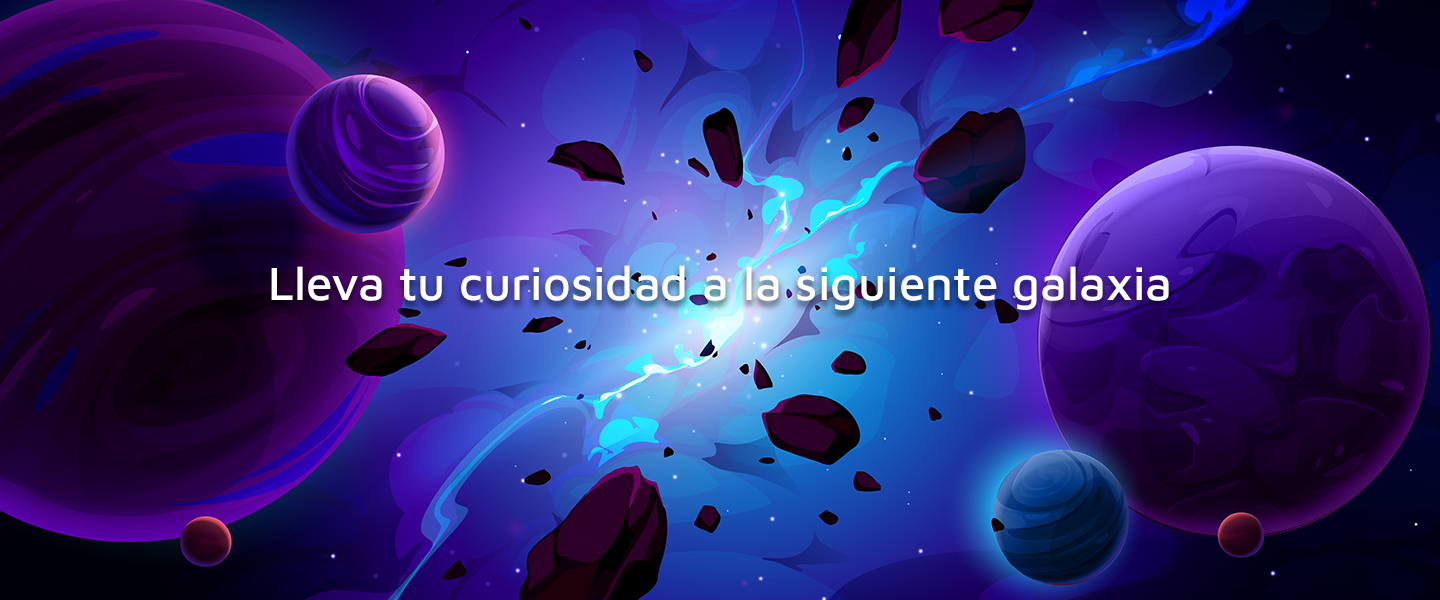
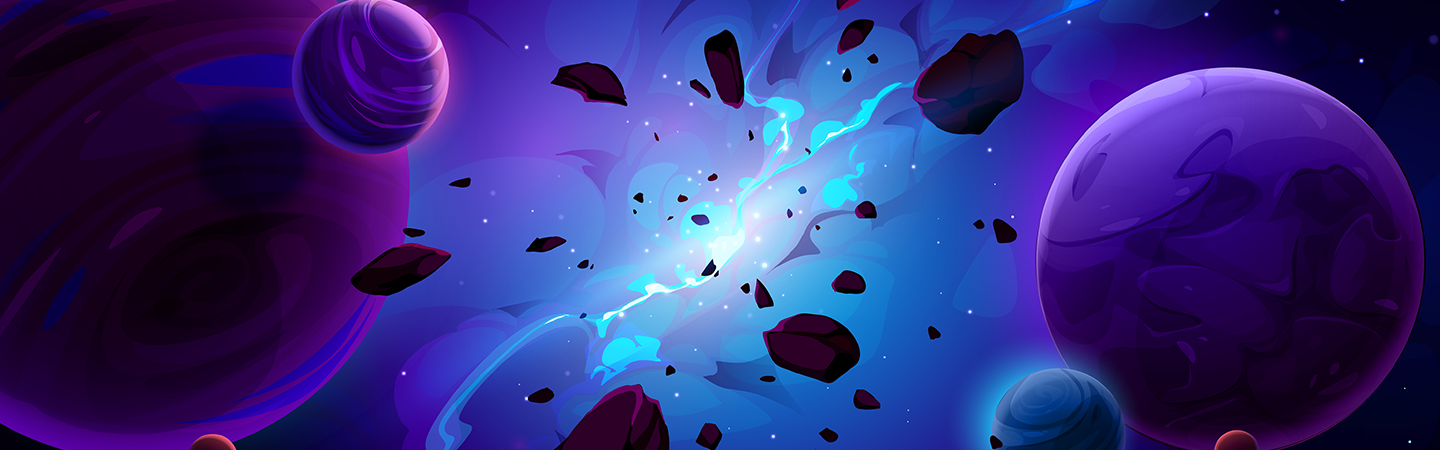
Agregando css de contenido principal y cards

diff --git a/assets/styles/indexStyle.css b/assets/styles/indexStyle.css
@@ -1,5 +1,4 @@
 *{
-    box-sizing: border-box;
     margin: 0;
     padding: 0;
     font-family: 'Maven Pro', sans-serif;
@@ -11,13 +10,20 @@ body{
 }
 
 p{
-    font-size: 17px;
+    font-size: 16px;
 }
 
 h1, h2, h3, h4{
     color: #270E5E;
     font-weight: bold;
-    font-size: 40px;
+}
+
+h4{
+    font-size: 21px;
+}
+
+h2{
+font-size: 35px;
 }
 /* NAVBAR */
 
@@ -26,7 +32,7 @@ h1, h2, h3, h4{
     display: flex;
     justify-content: flex-end;
     align-items: center;
-    height: 85px;
+    height: 77px;
     padding: 5px 10%;
 }
 
@@ -69,7 +75,7 @@ h1, h2, h3, h4{
 }
 
 .header .btn button{
-    margin-left: 20px;
+    margin: 20px;
     font-weight: 700;
     color: #1b3039;
     padding: 9px 25px;
@@ -86,11 +92,31 @@ h1, h2, h3, h4{
     transform: scale(1.1);
 }
 
+
 /* HERO */
- .hero {
-   width: 100%;
+.hero{
+    width: 100vw;
+    height: 450px;
+    display: flex;
+    align-items: center;
+    justify-content: center;
+    background: url(/assets/img/hero.png);
+    background-size: cover;
+    background-position: center;
 }
 
+
+.hero p {
+    color: #eceff1;
+    font-size:38px;
+    font-weight:500;
+    text-align: center;
+    text-shadow: #270E5E 1px 1px 8px;
+   
+    
+}
+
+/* CONTENIDO PRINCIPAL */
  .content1{
 display: flex;
 flex-direction: row;
@@ -105,7 +131,7 @@ justify-content: center;
 .content-text{
     text-align: justify;
     line-height: 28px;
-    height: 400px;
+    height: 300px;
     width: 600px;
     padding: 20px;
     margin: 30px;
@@ -125,7 +151,7 @@ justify-content: center;
     .content-text2{
         text-align: justify;
         line-height: 28px;
-        height: 400px;
+        height: 300px;
         width: 650px;
         text-align: start;
         padding: 20px;
@@ -149,3 +175,139 @@ animation: anime 1s infinite ease-in-out alternate;
         
     }
 }
+
+/* HERO SECUNDARIO */
+.second-hero{
+        width: 100vw;
+        height: 450px;
+        display: flex;
+        align-items: center;
+        justify-content: center;
+        background: url(/assets/img/section.png);
+        background-size: cover;
+        background-position: center;
+    }
+    
+    
+    .second-hero p {
+        color: #eceff1;
+        font-size:38px;
+        font-weight:500;
+        text-align: center;
+        text-shadow: #270E5E 1px 1px 8px;
+       
+        
+    }
+
+
+    /* SECCIÓN DE CARDS */
+
+
+    .card-row{
+        display: flex;
+        justify-content: space-evenly;
+        padding: 20px;
+        margin: 20px;
+    }
+    .card{
+        display: flex;
+        flex-direction: column;
+        width: 300px;
+        height: 380px;
+        box-shadow: 5px 5px 15px rgb(53, 53, 58);
+        text-align: center;
+        
+        border-radius: 10px;
+        background: #eceff1;
+
+    }
+
+    .card-image img{
+        height: 160px;
+        width: 300px;
+        border-radius: 10px 10px 0px 0px;
+    }
+   
+    .card-text{
+        margin:15px;
+        padding: 10px;
+        text-align: justify;
+    }
+
+    .card button{
+        width: 100px;
+        height: 80px;
+        font-weight: 700;
+        color: #1b3039;
+        background: #D5CAFF;
+        border: none;
+        border-radius: 10px;
+        cursor: pointer;
+        align-self: flex-end;
+        margin: 10px;
+    }
+
+    .card:hover{
+        transform:scale(1.15);
+        box-shadow: 5px 5px 15px rgba(0,0,0,0.6);
+    }
+    .card{
+
+        transition: 0.5s ease;
+        cursor:pointer;
+        margin: 30px;
+    }
+
+/* footer */
+    footer{
+        text-align: center;
+        background-color: #270E5E;
+    }
+
+    footer img{
+        height: 60px;
+        margin-top: 20px;
+    }
+    footer .menu li{
+        display: inline-block;
+        margin:0.7em;
+        text-align: center;
+        text-decoration: none;
+       
+    }
+
+    footer p{
+        margin:0 auto;
+        color: #D5CAFF;
+        padding-bottom: 20px;
+    }
+    
+    footer a{
+        color:#D5CAFF;
+        text-decoration: none;
+    }
+    footer .media-icons {
+        margin:1.5em 0;
+        display: flex;
+        flex-direction: row;
+        justify-content:center;
+        gap:30px;
+        list-style-type: none;
+
+    }
+
+    footer .media-icons a{
+        border: 1px #D5CAFF solid;
+        width: 2em;
+        height:2em;
+        border-radius:50%;
+        display: flex;
+        justify-content: center;
+        align-items: center;
+        transition: 0.3s;
+    }
+
+    .media-icons a:hover{
+        background-color: #9180d7;
+        color: #270E5E;
+    }

diff --git a/index.html b/index.html
@@ -12,6 +12,7 @@
       href="https://fonts.googleapis.com/css2?family=Maven+Pro:wght@400;500;600;700;800;900&display=swap"
       rel="stylesheet"
     />
+    <link rel="stylesheet" href="https://cdnjs.cloudflare.com/ajax/libs/font-awesome/6.4.0/css/all.min.css" />
   </head>
 
   <body>
@@ -32,8 +33,8 @@
     </header>
 
     <!-- Hero -->
-    <section class="Inicio">
-      <img src="assets/img/hero.png" alt="hero galaxia" class="hero" />
+    <section class="hero">
+      <p>Lleva tu curiosidad a la siguiente galaxia</p>
     </section>
     <br /><br /><br /><br />
 
@@ -56,7 +57,6 @@
       </div>
     </section>
 
-
     <section class="content2">
       <div class="content-text2">
         <h2>Una constelación de posibilidades</h2>
@@ -73,32 +73,88 @@
       <div>
         <img src="assets/img/planet.png" alt="astronauta" class="planet-content" />
       </div>
+<!-- HERO SECUNDARIO -->
+    </section>
++ <section class="second-hero">
+  <p>Lleva tu curiosidad a la siguiente galaxia</p>
+</section>
+<br /><br /><br /><br />
+<!-- FILA DE CARDS -->
+<section class="card-row">
+<article class="card">
+  <div class="card-image">
+    <img src="assets/img/nebulosa.png">
+  </div>
+  <div class="card-text">
+    <h4>Título magnífico</h4>
+    <br>
+    <p>Lorem ipsum dolor sit amet consectetur adipisicing elit. A architecto commodi porro quos itaque</p>
+  </div>
+  <button class="btn-card">Saber más</button>
+</article>
 
+<article class="card">
+  <div class="card-image">
+    <img src="assets/img/nebulosa.png">
+  </div>
+  <div class="card-text">
+    <h4>Título magnífico</h4>
+    <br>
+    <p>Lorem ipsum dolor sit amet consectetur adipisicing elit. A architecto commodi porro quos itaque</p>
+  </div>
+  <button class="btn-card">Saber más</button>
+</article>
+
+<article class="card">
+  <div class="card-image">
+    <img src="assets/img/nebulosa.png">
+  </div>
+  <div class="card-text">
+    <h4>Título magnífico</h4>
+    <br>
+    <p>Lorem ipsum dolor sit amet consectetur adipisicing elit. A architecto commodi porro quos itaque</p>
+  </div>
+  <button class="btn-card">Saber más</button>
+</article>
     </section>
 
-    <section></section>
+    <br /><br /> <br/><br/>
+    <!-- Footer -->
 
-    <!-- <footer>
-    <div class="container">
-      <img src="neboolalogo.png" alt="neboola logo">
-   
-    <div class="footerlinks">
-      <ul>
-        <li>Nosotros</li>
-        <li>FAQ</li>
-        <li>NASA</li>
-        <li>LinkedIn</li>
-      </ul>
-    </div>
-    <div class="footersocialicons">
-      2023 Neboola
-      <ul>
-        <li>Instagram</li>
-        <li>Twitter</li>
-        <li>Youtube</li>
-      </ul>
-    </div> 
-  </div>
-  </footer> -->
+    <footer>
+      <div class="container-footer">
+        <img src="assets/img/neboolalogo.png" alt="">
+        <ul class="menu">
+          <li><a href="">Home</a></li>
+          <li><a href="">Nosotros</a></li>
+          <li><a href="">FAQ</a></li>
+          <li><a href="">NASA</a></li>
+        </ul>
+        <ul class="media-icons">
+          <li>
+            <a href="">
+              <i class="fab fa-twitter"></i>
+            </a>
+          </li>
+
+          <li>
+            <a href="">
+              <i class="fab fa-linkedin"></i>
+            </a>
+          </li>
+            <li>
+              <a href="">
+                <i class="fab fa-behance"></i>
+              </a>
+            </li>
+           <li>
+              <a href="">
+                <i class="fab fa-behance"></i>
+              </a>
+            </li>
+        </ul>
+        <p> Neboola 2023 ©</p>
+      </div>
+    </footer>
   </body>
 </html>
